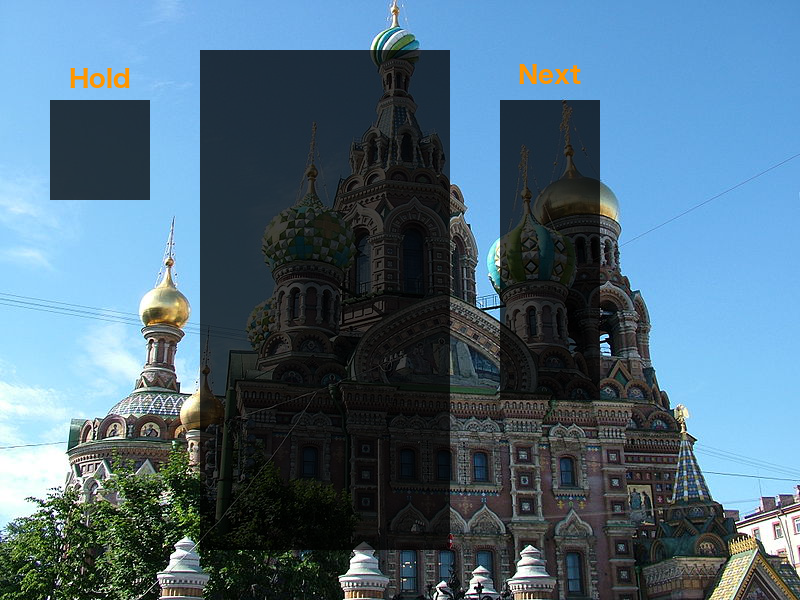
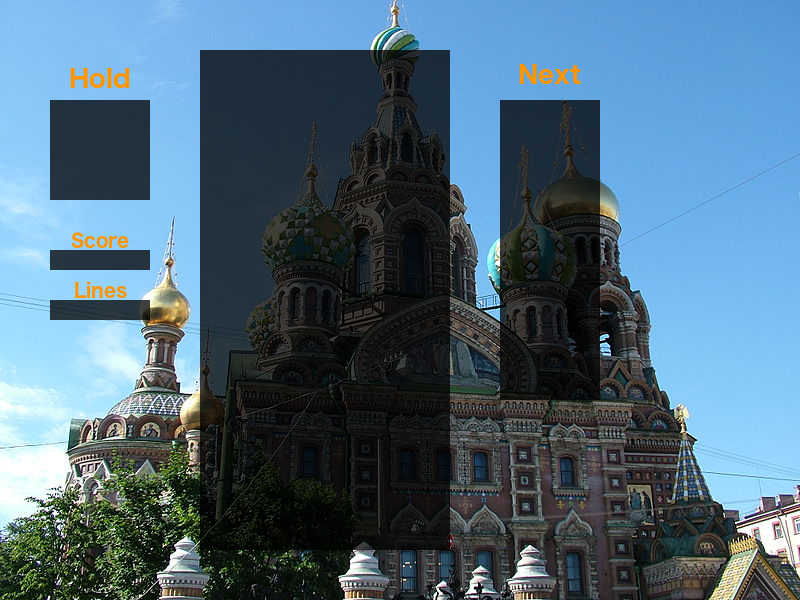
スコア実装。 スコアとは別に消したライン数も表記

Changed region(s): [[0.0625, 0.39, 0.1875, 0.54]]

diff --git a/gametypes.py b/gametypes.py
@@ -322,41 +322,47 @@ class Board(object):
 
 
 class InfoDisplay(object):
-    ROWS_CLEARED_X = 70
-    ROWS_CLEARED_Y = 550
-
-    def __init__(self, window):
-        self.rowsClearedLabel = pyglet.text.Label('Rows cleared: 0',
-                                                  font_size=14,
-                                                  x=InfoDisplay.ROWS_CLEARED_X,
-                                                  y=InfoDisplay.ROWS_CLEARED_Y
-                                                  )
-        self.pausedLabel = pyglet.text.Label('PAUSED',
-                                             font_size=32,
-                                             x=window.width // 2,
-                                             y=window.height // 2,
-                                             anchor_x='center',
-                                             anchor_y='center'
-                                             )
-        self.gameoverLabel = pyglet.text.Label('GAME OVER',
+    def __init__(self, window, score_x, score_y, lines_x, lines_y):
+        self._score_label = pyglet.text.Label('{0:07d}'.format(0),
+                                              font_size=18,
+                                              x=score_x,
+                                              y=score_y
+                                              )
+        self._rows_cleared_label = pyglet.text.Label('{0:07d}'.format(0),
+                                                     font_size=18,
+                                                     x=lines_x,
+                                                     y=lines_y
+                                                     )
+        self._paused_label = pyglet.text.Label('PAUSED',
                                                font_size=32,
                                                x=window.width // 2,
                                                y=window.height // 2,
                                                anchor_x='center',
                                                anchor_y='center'
                                                )
-        self.showPausedLabel = False
-        self.showGameoverLabel = False
+        self._game_over_label = pyglet.text.Label('GAME OVER',
+                                                  font_size=32,
+                                                  x=window.width // 2,
+                                                  y=window.height // 2,
+                                                  anchor_x='center',
+                                                  anchor_y='center'
+                                                  )
+        self._show_paused_label = False
+        self._show_game_over_label = False
 
     def set_rows_cleared(self, num_rows_cleared):
-        self.rowsClearedLabel.text = 'Rows cleared: ' + str(num_rows_cleared)
+        self._rows_cleared_label.text = '{0:07d}'.format(num_rows_cleared)
+
+    def set_score(self, score):
+        self._score_label.text = '{0:07d}'.format(score)
 
     def draw(self):
-        self.rowsClearedLabel.draw()
-        if self.showPausedLabel:
-            self.pausedLabel.draw()
-        if self.showGameoverLabel:
-            self.gameoverLabel.draw()
+        self._rows_cleared_label.draw()
+        self._score_label.draw()
+        if self._show_paused_label:
+            self._paused_label.draw()
+        if self._show_game_over_label:
+            self._game_over_label.draw()
 
 
 class InputProcessor(object):
@@ -409,43 +415,54 @@ class GameTick(object):
 class Game(object):
     def __init__(self, board, info_display, key_input, background_image, queue):
         self._queue = queue
-        self.board = board
-        self.infoDisplay = info_display
-        self.input = key_input
-        self.backgroundImage = background_image
-        self.paused = False
-        self.lost = False
-        self.numRowsCleared = 0
-        self.tickSpeed = 0.6
-        self.ticker = GameTick()
+        self._board = board
+        self._info_display = info_display
+        self._input = key_input
+        self._background_image = background_image
+        self._paused = False
+        self._lost = False
+        self._num_rows_cleared = 0
+        self._score = 0
+        self._tick_speed = 0.6
+        self._ticker = GameTick()
 
     def add_rows_cleared(self, rows_cleared):
-        self.numRowsCleared += rows_cleared
-        self.infoDisplay.set_rows_cleared(self.numRowsCleared)
+        self._num_rows_cleared += rows_cleared
+        if rows_cleared == 1:
+            self._score += 1
+        elif rows_cleared == 2:
+            self._score += 2
+        elif rows_cleared == 3:
+            self._score += 5
+        elif rows_cleared == 4:
+            self._score += 8
+
+        self._info_display.set_rows_cleared(self._num_rows_cleared)
+        self._info_display.set_score(self._score)
 
     def toggle_pause(self):
-        self.paused = not self.paused
-        self.infoDisplay.showPausedLabel = self.paused
+        self._paused = not self._paused
+        self._info_display.showPausedLabel = self._paused
 
     def update(self):
-        if self.lost:
-            self.infoDisplay.showGameoverLabel = True
+        if self._lost:
+            self._info_display.showGameoverLabel = True
         else:
-            command = self.input.consume()
+            command = self._input.consume()
             if command == InputProcessor.TOGGLE_PAUSE:
                 self.toggle_pause()
-            if not self.paused:
+            if not self._paused:
                 if command and command != InputProcessor.TOGGLE_PAUSE:
-                    self.board.command_falling_tetromino(command)
-                if self.ticker.is_tick(self.tickSpeed):
-                    rows_cleared, self.lost = self.board.update_tick()
+                    self._board.command_falling_tetromino(command)
+                if self._ticker.is_tick(self._tick_speed):
+                    rows_cleared, self._lost = self._board.update_tick()
                     self.add_rows_cleared(rows_cleared)
 
     def draw(self):
-        self.backgroundImage.blit(0, 0)
-        self.board.draw()
+        self._background_image.blit(0, 0)
+        self._board.draw()
         self._queue.draw()
-        self.infoDisplay.draw()
+        self._info_display.draw()
 
 
 class NextTetrominoQueue(object):

diff --git a/tetris.py b/tetris.py
@@ -25,7 +25,7 @@ gametypes.TetrominoType.class_init(blocksImage, BLOCK_SIZE)
 """ init game state """
 queue = gametypes.NextTetrominoQueue(500, 200, BLOCK_SIZE, QUEUE_SET)
 board = gametypes.Board(BOARD_X, BOARD_Y, GRID_WIDTH, GRID_HEIGHT, BLOCK_SIZE, queue)
-info_display = gametypes.InfoDisplay(window)
+info_display = gametypes.InfoDisplay(window, 55, 332, 55, 282)
 input_processor = gametypes.InputProcessor()
 game = gametypes.Game(board, info_display, input_processor, backgroundImage, queue)
 

diff --git a/README.md b/README.md
@@ -4,7 +4,7 @@
 - ~~Nextをキューで管理~~
 - ~~ウィンドウ、背景とブロックの画像サイズを変更~~
 - スーパーローテーション
-- インフィニティ
+- ~~インフィニティ~~
 - ホールド
 - ~~Next-Next-Next~~
 - ~~ガイドラインに合わせた初期配置~~
